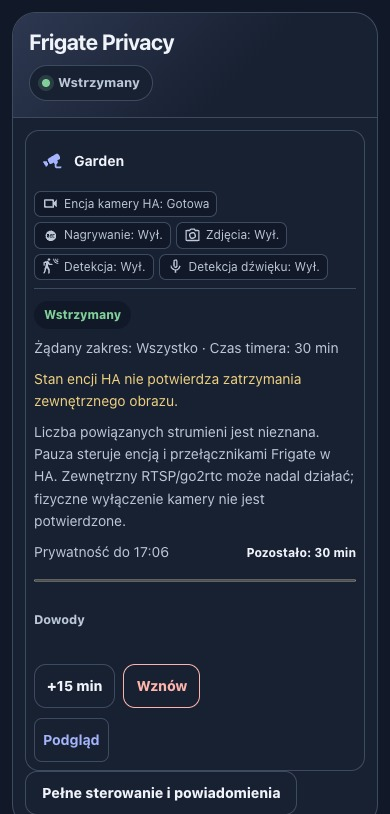
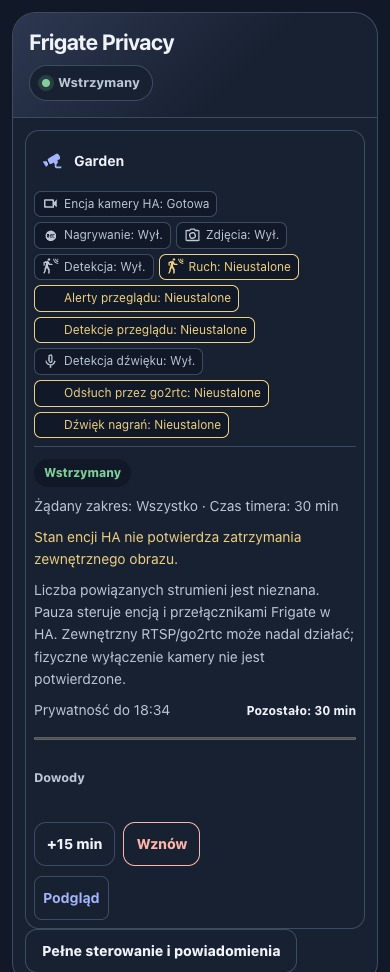
Refresh synthetic screenshots for feature scopes

diff --git a/docs/screenshots/_harness.html b/docs/screenshots/_harness.html
@@ -21,7 +21,7 @@ customElements.define('ha-icon',class extends HTMLElement {
  }
 });
 </script>
-<script src="../../ha-frigate-privacy.js?sha256=2850493fe52b71c86dbaaf5f56fc09c14062fba613af5c1dcbb20585b888fd23"></script>
+<script src="../../ha-frigate-privacy.js"></script>
 <script>
 // Documentation fixture: synthetic state and actual periods.py projection only.
 // Mutations deliberately fail; integration acceptance uses a separate live HA fixture.
@@ -125,6 +125,7 @@ const cameras=[
     "name": "Front Door",
     "camera_state": "off",
     "camera_can_toggle": true,
+    "feature_scopes": ["recordings", "snapshots", "detect", "audio_detection", "camera"],
     "switches": [
       {
         "entity_id": "switch.front_door_detect",
@@ -171,6 +172,7 @@ const cameras=[
     "name": "Garden",
     "camera_state": "idle",
     "camera_can_toggle": true,
+    "feature_scopes": ["recordings", "snapshots", "detect", "audio_detection", "camera"],
     "switches": [
       {
         "entity_id": "switch.garden_detect",
